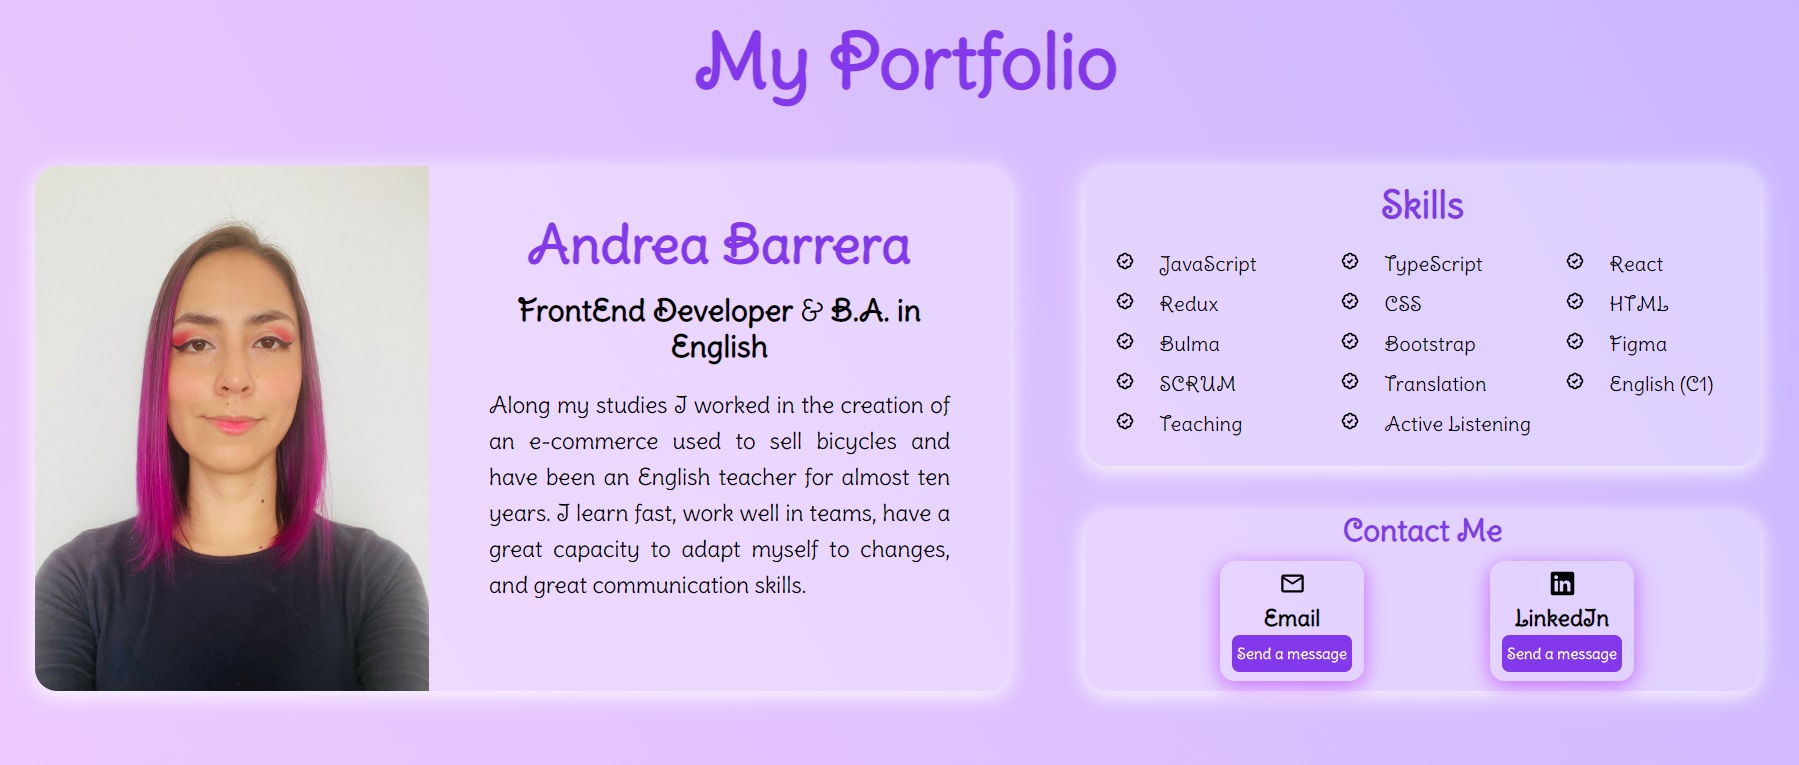
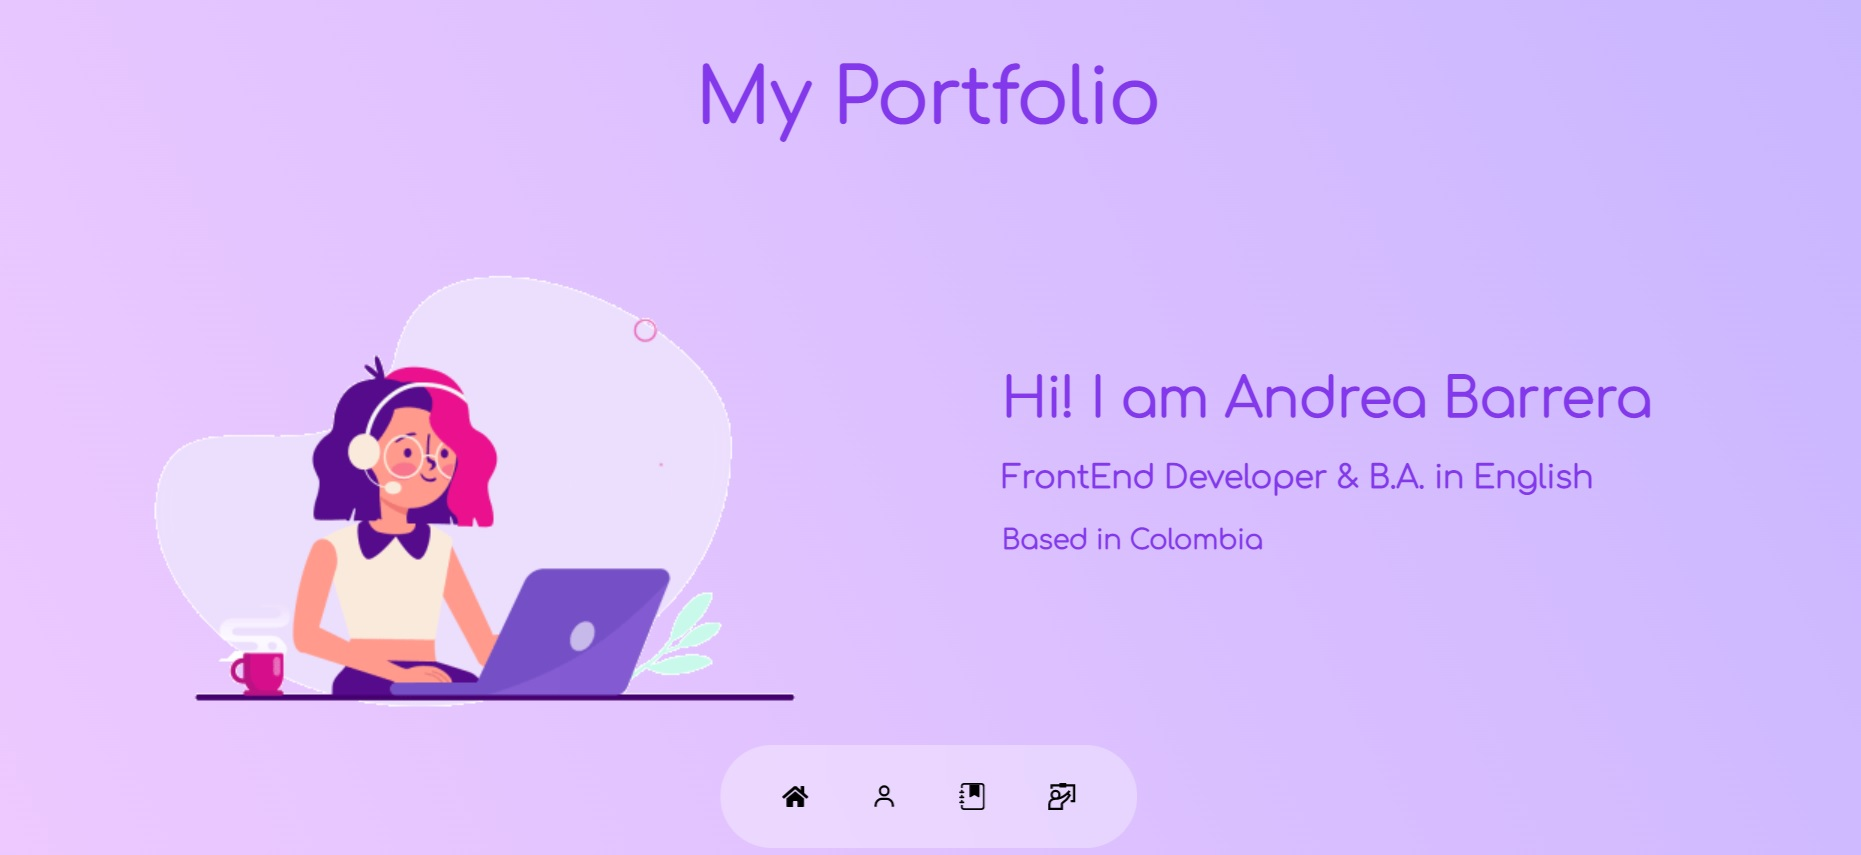
Finishing touches for computer version

diff --git a/src/App.js b/src/App.js
@@ -10,7 +10,7 @@ import Home from "./components/Home";
 function App() {
   return (
     <div className="App">
-      <div className="container">
+      <div className="container" id="home">
         <div>
           <div className="main-title">
             <h1>My Portfolio</h1>
@@ -19,21 +19,21 @@ function App() {
             <Home />
           </div>
           <Navbar />
-          <div className="about-section">
-            <AboutMe
-              image="fotoHV"
-              name="Andrea Barrera"
-              charge1="FrontEnd Developer"
-              charge2="B.A. in English"
-              text="Along my studies I worked in the creation of an e-commerce used to sell bicycles and have been an English teacher for almost ten years. I learn fast, work well in teams, have a great capacity to adapt myself to changes, and great communication skills."
-            />
-            <div>
-              <Skills />
-              <ContactMe />
-            </div>
+        </div>
+        <div className="about-section" id="about">
+          <AboutMe
+            image="fotoHV"
+            name="Andrea Barrera"
+            charge1="FrontEnd Developer"
+            charge2="B.A. in English"
+            text="Along my studies I worked in the creation of an e-commerce used to sell bicycles and have been an English teacher for almost ten years. I learn fast, work well in teams, have a great capacity to adapt myself to changes, and great communication skills."
+          />
+          <div className="other-about">
+            <Skills />
+            <ContactMe />
           </div>
         </div>
-        <div>
+        <div id="experience">
           <div className="secondary-title">
             <h1>My Experience</h1>
           </div>
@@ -81,7 +81,7 @@ function App() {
             />
           </div>
         </div>
-        <div>
+        <div id="projects">
           <div className="secondary-title">
             <h1>My Projects</h1>
           </div>

diff --git a/src/App.css b/src/App.css
@@ -57,7 +57,6 @@ body {
   column-count: 2;
   margin-top: 50px;
   margin-left: 80px;
-  /* margin-bottom: 50px; */
 }
 
 .about-section {
@@ -103,4 +102,8 @@ body {
   margin-left: 50px;
   margin-right: 50px;
   margin-bottom: 40px;
+}
+
+.other-about {
+  margin-top: 50px;
 }

diff --git a/src/stylesheets/AboutMe.css b/src/stylesheets/AboutMe.css
@@ -6,6 +6,7 @@
   box-shadow: 0 3px 13px 1px rgba(255, 255, 255, 0.833);
   border-radius: 15px;
   display: flex;
+  margin-top: 50px;
 }
 
 .about-image {
